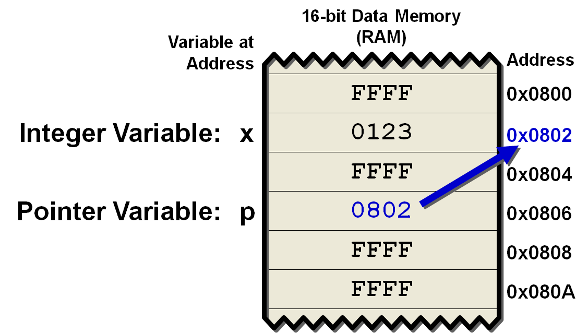
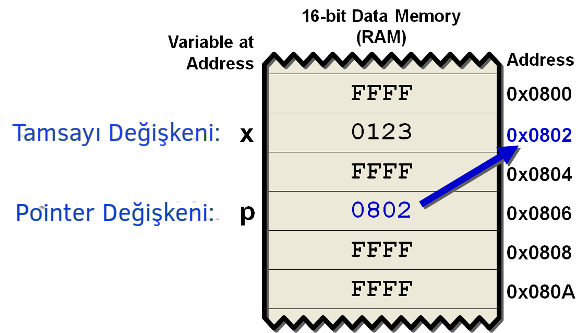
166

Changed region(s): [[0.0306, 0.3604, 0.3673, 0.4505], [0.0306, 0.6006, 0.3673, 0.6907]]

diff --git a/_posts/2018-01-18-C-Pointers.md b/_posts/2018-01-18-C-Pointers.md
@@ -29,7 +29,12 @@ Pointers işaretçiler, C programında belleğe erişmek ve adresi işletmek iç
 Address in C
 ------------
 
-Before you get into the concept of pointers, let's first get familiar with address in C.
+İşaretçileri kavramına girmeden önce, ilkin C'deki adresle aşina olalım.
+
+Programınızda bir değişkene sahipseniz, & var, size adresini bellekte verir, burada & başvuru operatörü olarak adlandırılır.
+
+Scanf () işlevini kullanırken bu gösterimi görmüş olmalısınız.
+Fonksiyonda, kullanıcının girilen değerini var'ın adresine kaydetmek için kullanılmıştır.
 
 If you have a variable var in your program, `&var` will give you its address in the memory, where `&` is commonly called the reference operator.
 
